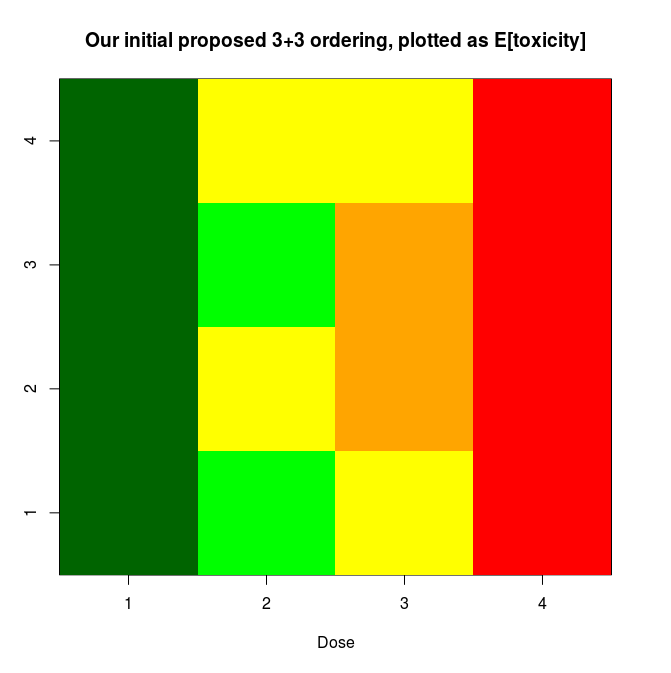
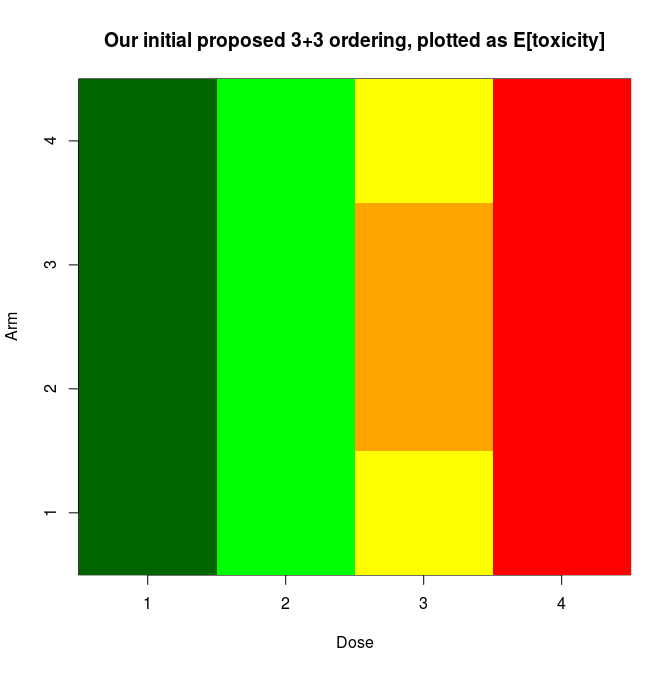
fix reversed dosing scheme

diff --git a/README.md b/README.md
@@ -1,11 +1,8 @@
 # pocrmplot
 fussing with PO-CRM and plotting the actual dose escalation path (AACR workshop)
   
-proposed arms (see plot.R and diagram.R for code):
-![Arm 1](arm1.png)  
-![Arm 2](arm2.png)  
-![Arm 3](arm3.png)  
-![Arm 4](arm4.png)   
+Initially proposed arms (see plot.R and diagram.R for code):
+![Arms](arms.png)
 
 setup for PO-CRM with our initial dose escalation plan (probably not optimal):
 
@@ -14,12 +11,12 @@ library(pocrm)
 library(DiagrammeR)
 
 ## for POCRM 
-doses <- list(crizotinib=paste0("2x", c(25, 37.5, 50), "mg Xalkori"),
-              sunitinib=paste0(c(200, 250), "mg Sutent"))
+doses <- list(sunitinib=paste0("2x", c(25, 37.5, 50), "mg Sutent"),
+              crizotinib=paste0(c(200, 250), "mg Xalkori"))
 
 ## this is essentially a WAG, which is WHY POCRM makes sense (updating)
-doseTox <- list(crizotinib=c(0.1, 0.2, 0.3),
-                sunitinib=c(0.1, 0.3))
+doseTox <- list(crizotinib=c(0.15, 0.3),
+                sunitinib=c(0.1, 0.2, 0.3))
 toxGuess <- apply(expand.grid(doseTox), 1,
                   function(x) 1 - (1 - x[1]) * (1 - x[2]))
 schedules <- apply(expand.grid(doses), 1, function(x) paste(x, collapse=" + "))
